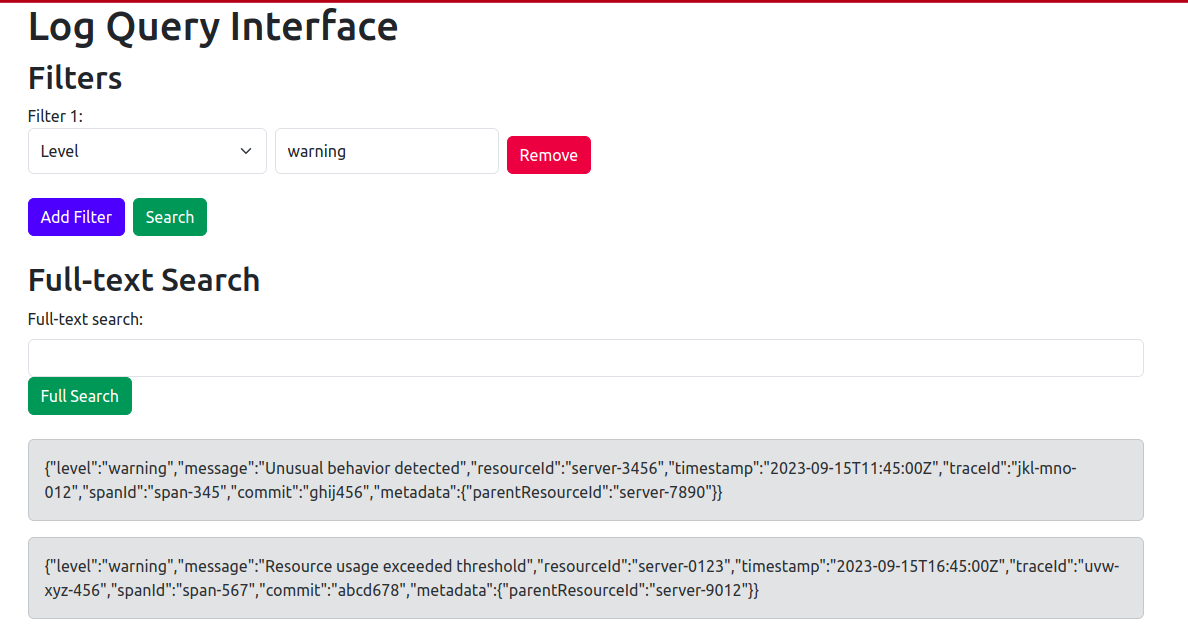
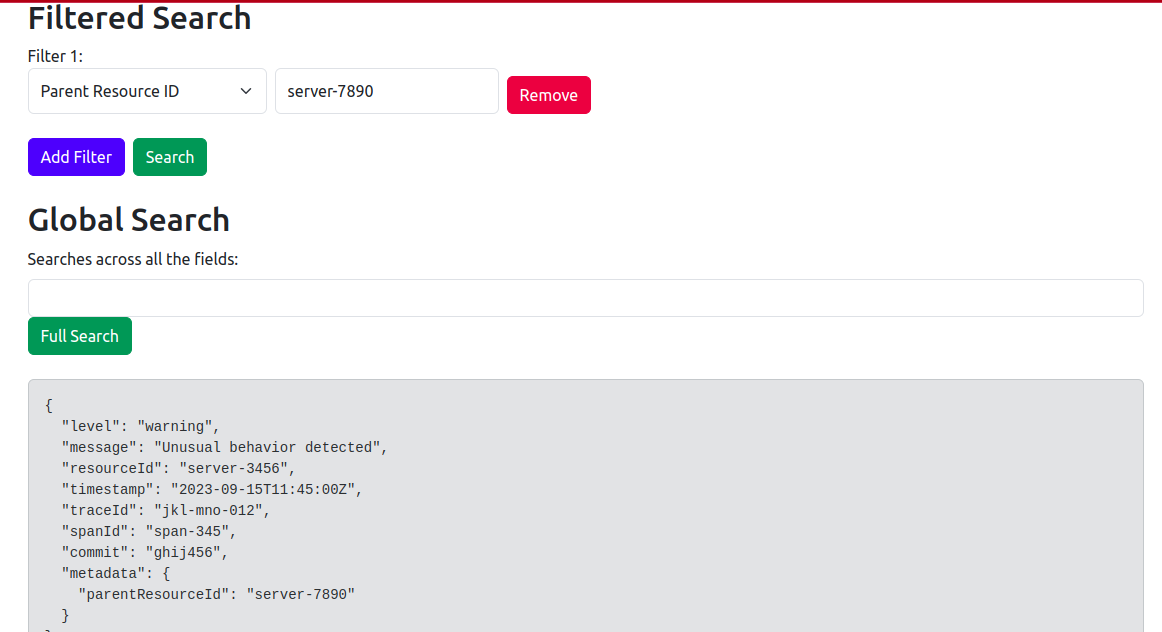
second commit

diff --git a/client/src/components/LogSearch.js b/client/src/components/LogSearch.js
@@ -75,6 +75,7 @@ const LogSearch = () => {
           <label className="form-label">
             Filter {index + 1}:
             <div className="d-flex">
+            <span className="me-2">Timestamp</span>
               <DatePicker
                 selected={filter.value[0]}
                 onChange={(date) => {
@@ -168,7 +169,7 @@ const LogSearch = () => {
 
       {/* Filters Section */}
       <div className="mb-4">
-        <h2>Filters</h2>
+        <h2>Filtered Search</h2>
         {filters.map((filter, index) => renderFilterValueInput(filter, index))}
         <Button onClick={handleAddFilter} className="btn btn-primary me-2">
           Add Filter
@@ -180,9 +181,9 @@ const LogSearch = () => {
 
       {/* Full-text search Section */}
       <div className="mb-4">
-        <h2>Full-text Search</h2>
+        <h2>Global Search</h2>
         <Form.Group controlId="fullTextSearch">
-          <Form.Label>Full-text search:</Form.Label>
+          <Form.Label>Searches across all the fields:</Form.Label>
           <Form.Control
             type="text"
             value={query}
@@ -198,7 +199,7 @@ const LogSearch = () => {
       <div className="mt-4">
         {logs.map((log) => (
           <div key={log._id} className="alert alert-secondary">
-            {JSON.stringify(log._source)}
+            <pre>{JSON.stringify(log._source, null, 2)}</pre>
           </div>
         ))}
       </div>

diff --git a/README.md b/README.md
@@ -86,13 +86,13 @@ npm start
 ![App Screenshot](media/demo1.png)
 
 3. Search logs based on combination of filters using dynamic addition and removal of filters
-![App Screenshot](media/demo3.png)
+![App Screenshot](media/demo2.png)
 
 4. Search logs based on timestamp
 ![App Screenshot](media/timestamp.png)
 
 5. Search logs based on full-text search
-![App Screenshot](media/demo4.png)
+![App Screenshot](media/demo3.png)
 
 ### Using Elasticsearch
 
